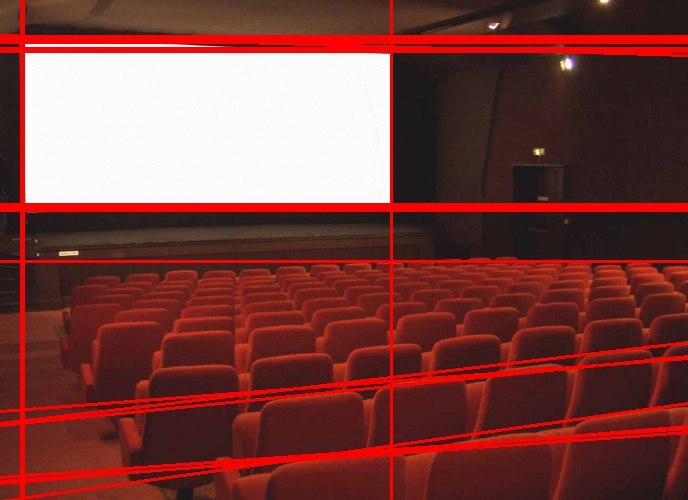
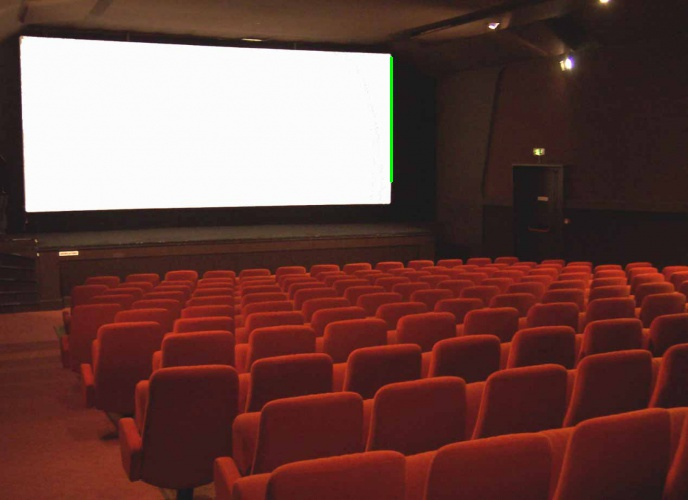
Intersection improvements for hough line detection

Changed region(s): [[0.0, 0.0, 1.0, 1.0]]

diff --git a/preprocessing.py b/preprocessing.py
@@ -1,4 +1,5 @@
 import numpy as np
+import math
 import cv2
 
 
@@ -13,6 +14,8 @@ class PreProcessing:
         self.height = 0
         self.cropped_image = np.array([])
         self.resized_image = np.array([])
+        self.threshold = 0
+        self.smooth = 5
 
     # def get_image(self):
     #     '''This function is collecting image from picamera and
@@ -60,43 +63,48 @@ class PreProcessing:
         blur = self.get_blurred(gray, G)
         th, ret = cv2.threshold(blur, 0, 255, cv2.THRESH_OTSU)
         edge =  cv2.Canny(blur, th * 0.5, th)
+        self.threshold = th
         return edge
+
+    def get_distance(self, pt1, pt2):
+        return math.sqrt((pt2[0] - pt1[0]) ** 2 + (pt2[1] - pt1[1]) ** 2)
 
     def get_hough_lines(self, image):
         '''This function is for finding hough lines properly and extending them for visualization purposes'''
         height, width = image.shape[:2]
         image = cv2.resize(image, (int(width * (500.0 / height)), 500), cv2.INTER_LINEAR)
-        lines = cv2.HoughLinesP(self.get_edged(image, 5), 1, np.pi/180, 70, 30, 10)
+        edged = self.get_edged(image, 5)
+        lines = cv2.HoughLinesP(edged, 1, np.pi/180, int(self.threshold * 0.5) , 1000, self.threshold * 0.5)
         width_resized = int(width * (500.0 / height))
         height_resized = 500
         extended_lines = []
         counter = 0
         for line in lines:
             #v is a vector storing one line information
-            v = line[0] 
-            m = 0
-            if (v[0] - v[2]) != 0:
-                m = (float(v[1]) - float(v[3])) / (float(v[0]) - float(v[2]))
-                b = v[1] - v[0] * m
-                v[0] = 0
-                v[1] = b
-                v[2] = width_resized
-                v[3] = width_resized * m + b
-                if v[3] > height_resized or v[3] < 0:
-                    v[2] = height_resized * m + b
-                    v[3] = height_resized
-                cv2.line(image,(v[0], v[1]), (v[2], v[3]),(0,0,255),2)
+            # v = line[0] 
+            # m = 0
+            # if (v[0] - v[2]) != 0:
+            #     m = (float(v[1]) - float(v[3])) / (float(v[0]) - float(v[2]))
+            #     b = v[1] - v[0] * m
+            #     v[0] = 0
+            #     v[1] = b
+            #     v[2] = width_resized
+            #     v[3] = width_resized * m + b
+            #     if v[3] > height_resized or v[3] < 0:
+            #         v[2] = height_resized * m + b
+            #         v[3] = height_resized
+            #     cv2.line(image,(v[0], v[1]), (v[2], v[3]),(0,0,255),2)
 
-            else:
-                v[1] = 0
-                v[3] = height_resized
-                cv2.line(image,(v[0], v[1]), (v[2], v[3]),(0,255,0),2)
-            extended_lines.append([])
+            # else:
+            #     v[1] = 0
+            #     v[3] = height_resized
+            #     cv2.line(image,(v[0], v[1]), (v[2], v[3]),(0,255,0),2)
+            # extended_lines.append([])
 
-            for element in v:
-                extended_lines[counter].append(element)
+            # for element in v:
+            #     extended_lines[counter].append(element)
 
-            counter += 1
+            # counter += 1
             
             #print m, b
             # line_draw = []
@@ -104,13 +112,20 @@ class PreProcessing:
             # line[0][1] = float(((v[1] - v[3]) / (v[0] - v[2])) * -v[0] + v[1])
             # line[0][2] = width_resized
             # line[0][3] = float(((v[1] - v[3]) / (v[0] - v[2])) * (width_resized - v[2]) + v[3])
-            #cv2.line(image,(line[0][0], line[0][1]), (line[0][2], line[0][3]),(0,255,0),2)
+            cv2.line(image,(line[0][0], line[0][1]), (line[0][2], line[0][3]),(0,255,0),2)
             
-        return lines
+        return image, lines
 
-    def get_intersection(self, image, line1, line2):
+    def intersection_vis(self, image, intersection_points):
         height, width = image.shape[:2]
         image = cv2.resize(image, (int(width * (500.0 / height)), 500), cv2.INTER_LINEAR)
+        for point in intersection_points:
+            cv2.circle(image, (point[0], point[1]), 5, (255, 0, 0), -1)
+
+        return image
+
+    def get_intersection(self, image, line1, line2):
+
         x1 = line1[0][0]; y1 = line1[0][1]; x2 = line1[0][2]; y2 = line1[0][3]
         x3 = line2[0][0]; y3 = line2[0][1]; x4 = line2[0][2]; y4 = line2[0][3]
         intersection_point = []
@@ -121,12 +136,72 @@ class PreProcessing:
             py = ((x1 * y2 - y1 * x2) * (y3 - y4) - (y1 - y2) * (x3 * y4 - y3 * x4)) / d
             intersection_point.append(px)
             intersection_point.append(py)
-            cv2.circle(image, (intersection_point[0],intersection_point[1]), 5, (255, 0, 0), -1)
             
         else:
             intersection_point = [0, 0]
 
-        return image
+        return intersection_point
+
+    def same_intersections(self, intersection_points):
+
+        for i in range(0, len(intersection_points)):
+            for j in range(i + 1, len(intersection_points)):
+                if intersection_points[i] == intersection_points[j]:
+                    intersection_points.pop(j)
+                    return self.same_intersections(intersection_points)
+
+        return intersection_points
+
+    def smooth_intersections(self, intersection_points):
+        '''This function makes closer intersection values approximation, it
+        is preprocessing for eliminating multiple intersection points for better results'''
+        checker = 0
+        remove = []
+        for i in range(0, len(intersection_points)):
+            counter = 1
+            for j in range(i + 1, len(intersection_points)):
+                if (intersection_points[i][0] + 15) > intersection_points[j][0] and (intersection_points[i][0] - 15) < intersection_points[j][0] \
+                    and (intersection_points[i][1] + 15) > intersection_points[j][1] and (intersection_points[i][1] - 15) < intersection_points[j][1]:
+                    intersection_points[i][0] += intersection_points[j][0]
+                    intersection_points[i][1] += intersection_points[j][1]
+                    remove.append(intersection_points[j])
+                    counter += 1
+                    checker += 1
+
+            if counter != 1:
+                intersection_points[i][0] = intersection_points[i][0] / counter
+                intersection_points[i][1] = intersection_points[i][1] / counter
+                for rm in remove:
+                    intersection_points.remove(rm)
+
+                return self.smooth_intersections(intersection_points)
+
+        if checker == 0:
+            return intersection_points
+
+        
+
+
+    def calculate_distances(self, intersection_points):
+        line_distances = []
+        for counter in range(0, len(intersection_points)):
+            for counter2 in range(counter + 1, len(intersection_points)):
+                line_distances.append([math.floor(self.get_distance(intersection_points[counter], intersection_points[counter2])), \
+                intersection_points[counter], intersection_points[counter2]])
+
+        return line_distances
+
+    def distance_ratio_detect(self, distances):
+        correct_lines = []
+        for counter in range(0, len(distances)):
+            for counter2 in range(counter + 1, len(distances)):
+                if int(distances[counter][0]) != 0 and int(distances[counter2][0]) != 0:
+                    if (distances[counter][0] / distances[counter2][0]) < 1.78 and (distances[counter][0] / distances[counter2][0]) > 1.76:
+                        correct_lines.append([distances[counter][0], distances[counter2][0], distances[counter][1], distances[counter][2], \
+                            distances[counter2][1], distances[counter2][2]])
+                    elif (distances[counter][0] / distances[counter2][0]) < 0.57 and (distances[counter][0] / distances[counter2][0]) > 0.55:
+                        correct_lines.append([distances[counter][0], distances[counter2][0], distances[counter][1], distances[counter][2], \
+                            distances[counter2][1], distances[counter2][2]])
 
     def get_perspective(self, image):
         pass
@@ -189,13 +264,26 @@ try:
     image = cv2.imread(img_name, 1)
 except:
     print "ERROR: This image is not exist or unknown format."
-
+intersection_points = []
 yunus = PreProcessing(image, 128, False)
-lines = yunus.get_hough_lines(image)
-circle_image = image
+image6, lines = yunus.get_hough_lines(image)
+
 for i in range(0, len(lines)):
     for j in range(i + 1, len(lines)):
-            circle_image = yunus.get_intersection(circle_image, lines[i], lines[j])
+            intersection_point = yunus.get_intersection(image, lines[i], lines[j])
+            intersection_points.append(intersection_point)
+
+intersection_points = yunus.same_intersections(intersection_points)
+
+intersection_normal = yunus.intersection_vis(image, intersection_points)
+
+smooth_points = yunus.smooth_intersections(intersection_points)
+
+intersection_smooth = yunus.intersection_vis(image, smooth_points)
+
+distances = yunus.calculate_distances(intersection_points)
+
+yunus.distance_ratio_detect(distances)
 
 image2 = yunus.get_scaled()
 image3 = yunus.get_cropped()
@@ -203,10 +291,13 @@ image4 = yunus.get_blurred(image, 3)
 image5 = yunus.get_edged(image, 5)
 
 #image5= yunus.get_hist_eq()
+
 #image6 = yunus.get_blocks()
 cv2.imwrite("output/" + img_name[0:-4] + '_scaled.jpg', image2)
 cv2.imwrite("output/" + img_name[0:-4] + '_cropped.jpg', image3)
 cv2.imwrite("output/" + img_name[0:-4] + '_blurred.jpg', image4)
 cv2.imwrite("output/" + img_name[0:-4] + '_edged.jpg', image5)
-# cv2.imwrite("output/" + img_name[0:-4] + '_lines.jpg', image6)
-cv2.imwrite("output/" + img_name[0:-4] + '_intersection.jpg', circle_image)
+
+cv2.imwrite("output/" + img_name[0:-4] + '_lines.jpg', image6)
+cv2.imwrite("output/" + img_name[0:-4] + '_intersection_normal.jpg', intersection_normal)
+cv2.imwrite("output/" + img_name[0:-4] + '_intersection_smooth.jpg', intersection_smooth)
